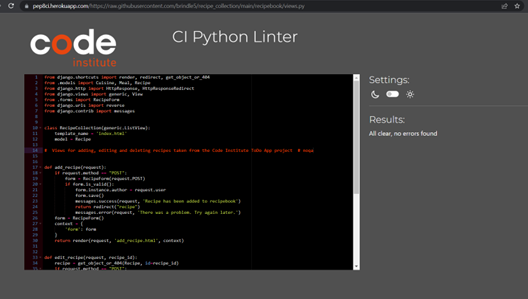
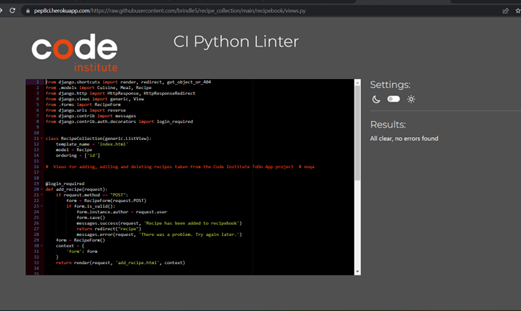
Update testing file with views.py validator screenshot and remove extra lines

diff --git a/TESTING.md b/TESTING.md
@@ -44,14 +44,13 @@ I ran my python code through the [Code Institute Python Linter](https://pep8ci.h
 
 •	[Models.py]( https://pep8ci.herokuapp.com/https://raw.githubusercontent.com/brindle5/recipe_collection/main/recipebook/models.py) | No errors
 
-
 ![Python models.py linter screenshot](documentation/python_model_linter_screenshot.png)
 
-•	[Test_forms.py]( https://pep8ci.herokuapp.com/https://raw.githubusercontent.com/brindle5/recipe_collection/main/recipebook/test_forms.py)
+•	[Test_forms.py](https://pep8ci.herokuapp.com/https://raw.githubusercontent.com/brindle5/recipe_collection/main/recipebook/test_forms.py) | No errors
 
-![Test_forms.py linter screenshot](documentation/python_test_forms_linter_screenshot.png)
+![Test_forms.py linter screenshot](documentation/python_test_forms_linter_screenshot.png) | No errors
 
-•	[Test_views.py]( https://pep8ci.herokuapp.com/https://raw.githubusercontent.com/brindle5/recipe_collection/main/recipebook/test_views.py)
+•	[Test_views.py]( https://pep8ci.herokuapp.com/https://raw.githubusercontent.com/brindle5/recipe_collection/main/recipebook/test_views.py) | No errors
 
 ![Test_views.py linter screenshot](documentation/python_test_views_linter_screenshot.png)
 
@@ -70,7 +69,6 @@ I ran my python code through the [Code Institute Python Linter](https://pep8ci.h
 ![Python settings.py linter screenshot](documentation/python_settings_linter_screenshot.png)
 
 •	[Urls.py](https://pep8ci.herokuapp.com/https://raw.githubusercontent.com/brindle5/recipe_collection/main/thekitchen/urls.py) | No errors
-
 
 ![Python kitchen urls linter screenshot](documentation/python_kitchenurls_linter_screenshot.png)
 
